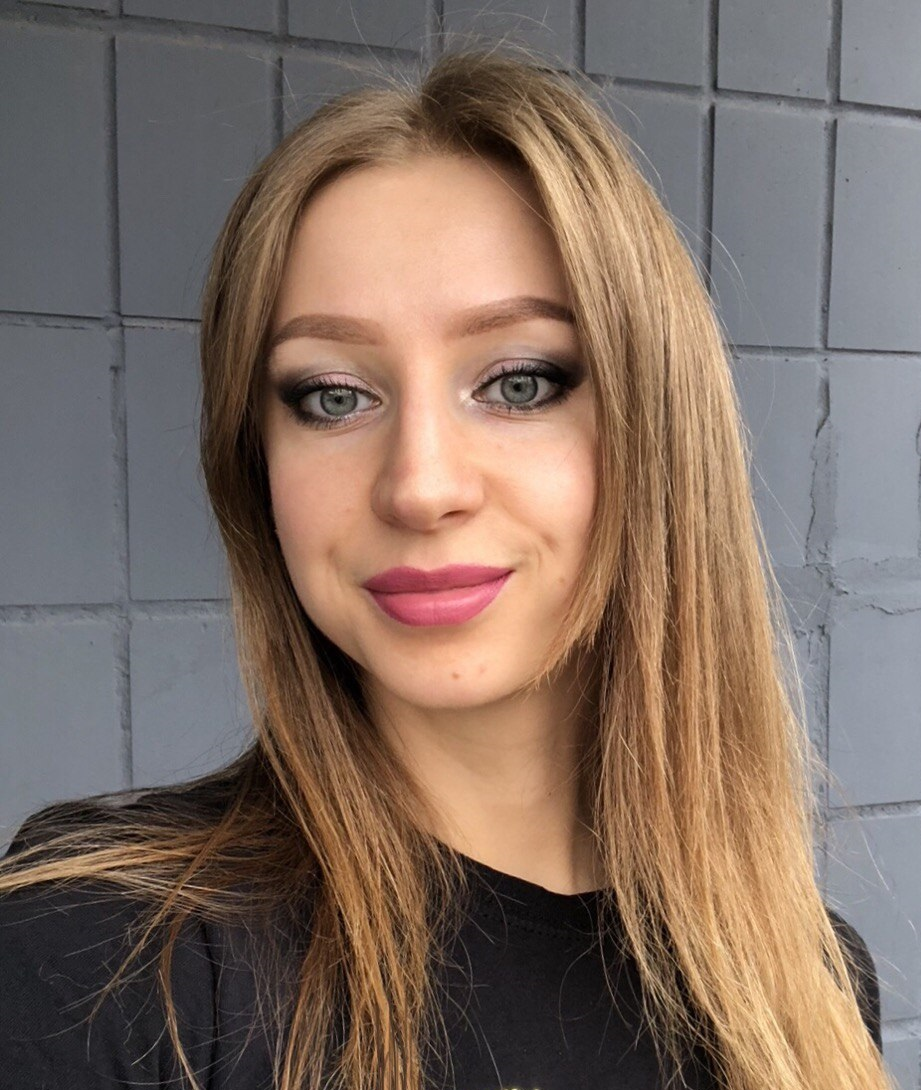
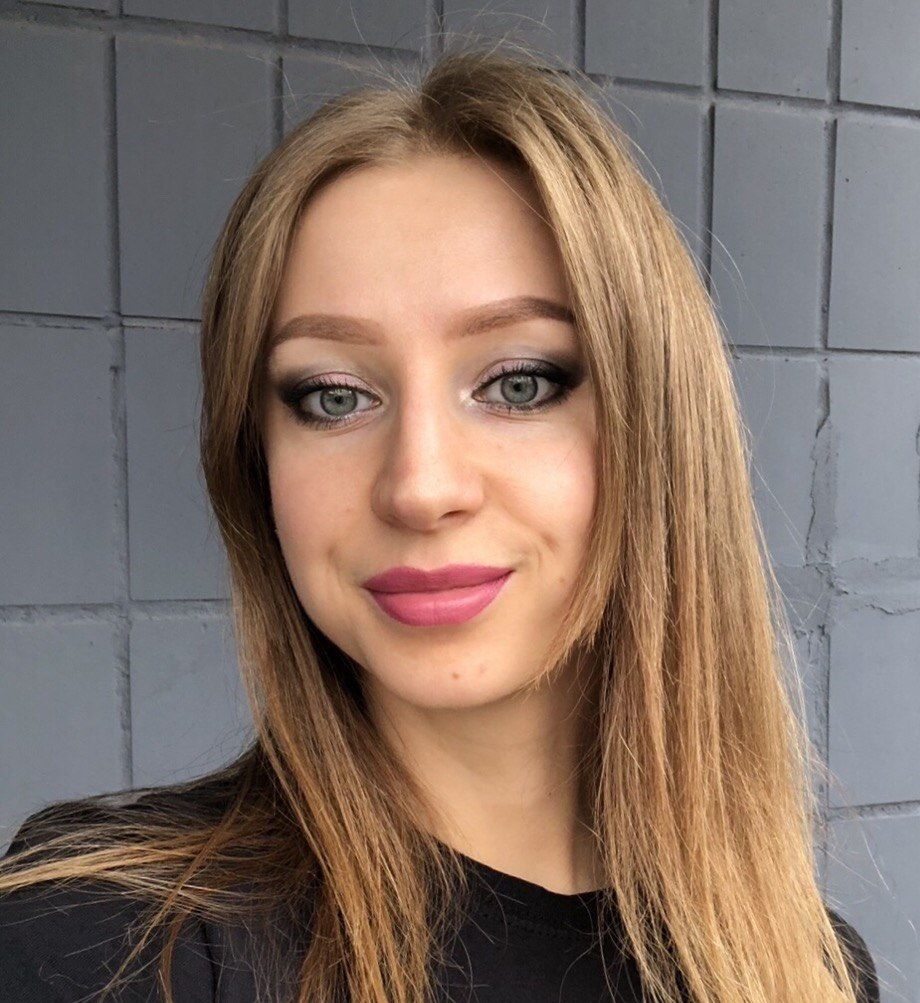
Lesson 9. Modified styles with max-width, max-height

diff --git a/index.html b/index.html
@@ -24,7 +24,7 @@
 
   <section>
     <div>
-      <a href="HireMe.html" target="_self" class="offer-link">Offer a job</a>
+      <a href="HireMe/hire-me.html" target="_self" class="offer-link">Offer a job</a>
       <div class="work-exp left-position">
         Work experience
       </div>

diff --git a/style.css b/style.css
@@ -9,8 +9,8 @@ section{
 img{
   padding: 10px;
   border: 2px solid rgb(43, 173, 196);
-  width: 100px;
-  height: 100px;
+  max-width: 100px;
+  max-height: 100px;
   display: inline;
   float: right;
 }
